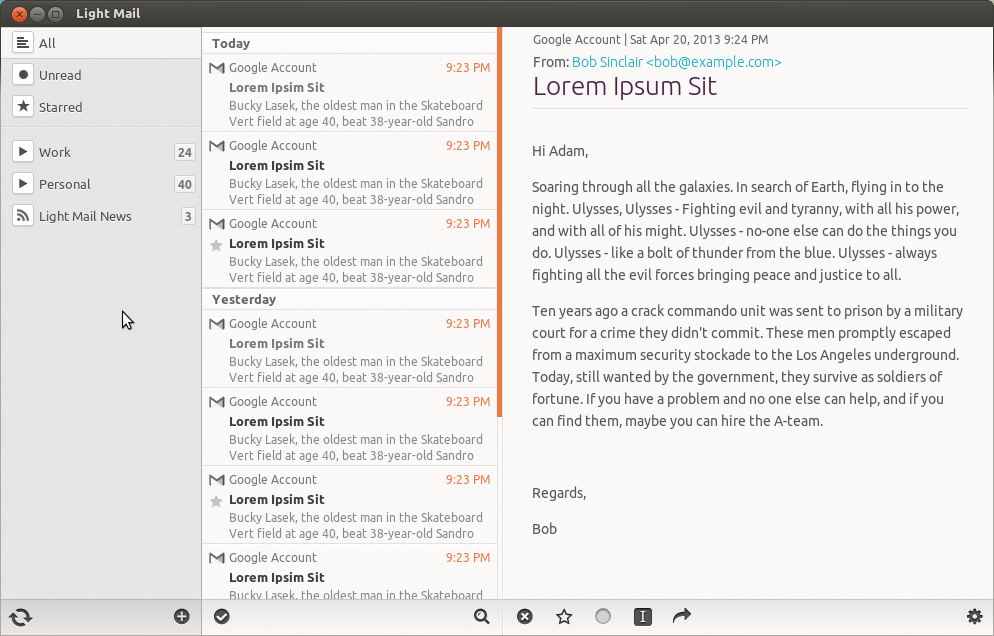
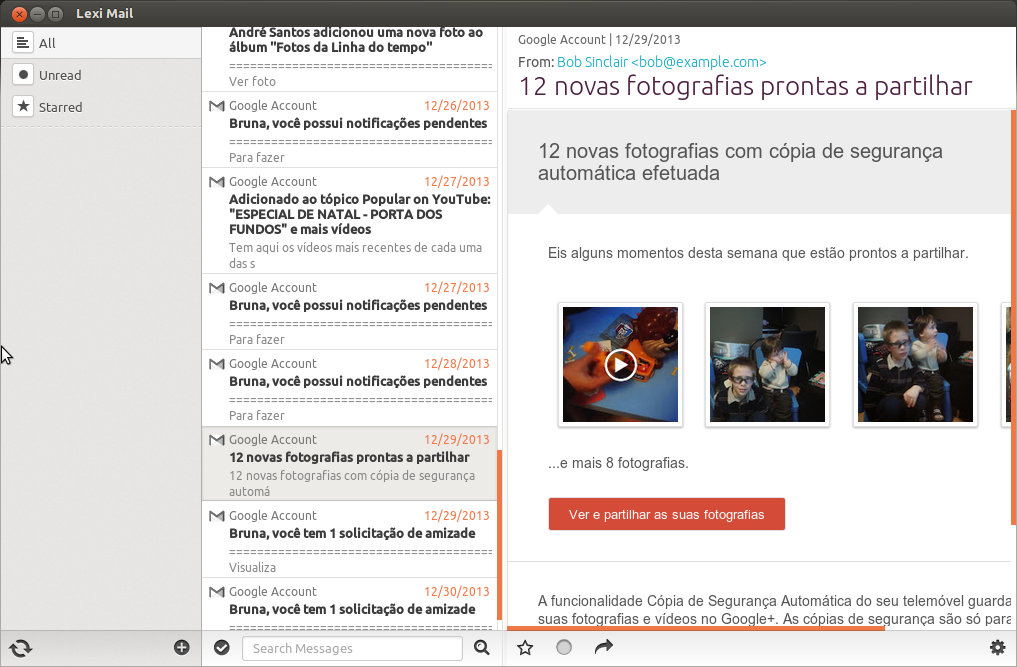
added support for showwing email message

diff --git a/themes/default/css/style.css b/themes/default/css/style.css
@@ -2,15 +2,13 @@ button:focus { outline: none; }
 
 a:focus { outline: none; }
 
-::-webkit-scrollbar { width: 5px; }
+::-webkit-scrollbar { width: 5px; height: 5px;}
 
 ::-webkit-scrollbar-thumb { background: #f07746; }
 
 #messages-list::-webkit-scroller-thumb { border-left: 1px solid #e1e1df; }
 
 #messages-list::-webkit-scrollbar-track { border-left: 1px solid #e1e1df; }
-
-#message::-webkit-scrollbar { width: 4px; }
 
 body, html, .splitter { height: 100%; font-family: "Ubuntu", "Helvetica", "Arial", sans-serif; }
 
@@ -132,25 +130,24 @@ input, textarea { font-family: "Ubuntu", "Helvetica", "Arial", sans-serif; }
 #messages-list li.no-border { border-bottom: 1px solid transparent; }
 #messages-list li.no-border.selected { border-bottom: 1px solid #e1e1df; }
 
-#post { max-width: 600px; overflow: hidden; margin: 0 auto; padding: 0 25px; font-size: 14px; color: #555555; line-height: 22px; }
-#post .post-link { display: block; position: relative; margin-top: 0px; margin-bottom: 30px; border: 1px solid transparent; border-bottom: 1px solid rgba(0, 0, 0, 0.1); box-shadow: 0 1px 0 white; }
+#post { overflow: hidden; margin: 0; padding: 0; font-size: 14px; color: #555555; line-height: 22px; }
+#post .post-link { padding: 0 10px; display: block; position: relative; margin: 0px; border: 1px solid transparent; border-bottom: 1px solid rgba(0, 0, 0, 0.1); box-shadow: 0 1px 0 white; }
 #post .post-link .details { font-weight: 400; display: block; font-size: 12px; color: #666666; }
 #post .post-link h1.title { color: #4d1f41; font-size: 26px; font-weight: 300; font-family: "Ubuntu Light", "Ubuntu", "Helvetica", "Arial", sans-serif; padding-bottom: 10px; margin: 0; line-height: 1; text-shadow: 0 0 1px rgba(0, 0, 0, 0.01); max-width: 600px; }
+
 #post strong { font-weight: bold; }
 #post em { font-style: italic; }
-#post table { max-width: 600px; width: 100%; }
+#post table { width: 100%; }
 #post img { max-width: 100% !important; box-sizing: border-box; height: auto !important; }
 #post img:not(.no-border), #post iframe { /* images resize with window */ padding: 4px; margin: 15px auto; display: table; background-color: white; border: none; border-radius: 2px; box-shadow: 0 1px 3px rgba(0, 0, 0, 0.3); }
 #post h2 { text-shadow: 0 0 1px rgba(0, 0, 0, 0.01); font-family: "Ubuntu Light", "Ubuntu", "Helvetica", "Arial", sans-serif; color: #4d1f41; }
 #post h3 { font-size: 18px; color: #4d1f41; font-family: "Ubuntu Medium", "Ubuntu", "Helvetica", "Arial", sans-serif; text-shadow: 0 0 1px rgba(0, 0, 0, 0.01); font-weight: 600; }
 #post h3 a { font-weight: 600; font-family: "Ubuntu Medium", "Ubuntu", "Helvetica", "Arial", sans-serif; }
 #post a { font-family: "Ubuntu Light", "Ubuntu", "Helvetica", "Arial", sans-serif; font-weight: 500; color: #08a8c5; text-decoration: none; }
-#post a:not(.post-link):hover { text-decoration: underline; }
-#post a.youtube { display: block; position: relative; }
-#post a.youtube:after { content: ""; position: absolute; display: block; top: 50%; bottom: auto; left: 50%; right: auto; width: 77px; height: 77px; margin: -37px 0 0 -37px; z-index: 5; background: url(../img/youtube.png); }
-#post p, #post div, #post img { max-width: 600px; }
 #post a.hasImage { border-bottom: 0; }
 #post hr { height: 2px; border: 0; background: url(../img/hr.png); }
+
+#post > .body { overflow: auto; }
 
 #modal * { -webkit-user-select: none; }
 #modal > div { position: fixed; border-radius: 5px; background-color: white; box-shadow: 0 0 5px rgba(0, 0, 0, 0.3); z-index: 300; }

diff --git a/js/app/widget/appshell.js b/js/app/widget/appshell.js
@@ -64,6 +64,8 @@ var Shell = {
 
 					// Splitter
 					$('#app').trigger('resize');
+
+					self.redraw();
 				}
 			});
 
@@ -103,27 +105,73 @@ var Shell = {
 		return d;
 	},
 
-	show: function(messages)
+	list: function(messages)
 	{
 		var self = this;
 
 		var msglist = $('#messages-list');
 		$.each(messages, function(i, m)
 		{
-			var txt = (m.text || m.html).substr(0, 200);
-			console.log(txt);
+			var txt = (m.text || m.html).substr(0, 50);
 
-			msglist.append(app.templates.message({
+			msglist.append(app.templates.row({
 				id: i,
+				account: 'Google Mail',
+				icon: '',
 				date: moment(m.date).calendar(),
 				subject: m.subject,
-				snipet: htmlToText.fromString(txt)
+				snipet: htmlToText.fromString(txt),
+				read: false,
+				starred: false
 			}));
+		});
+
+		msglist.find('li').off('click').on('click', function()
+		{
+			msglist.find('.selected').removeClass('selected');
+			$(this).addClass('selected');
+
+			var id = $(this).data('id');
+			var m = messages[id];
+
+			self.open(m);
+
 		});
 
 		// show all
 		$('#overlay').hide();
 		self.sync.end();
+	},
+
+	open: function(message)
+	{
+		var win = $('#post-window');
+		win.empty();
+
+		win.append(app.templates.message({
+			id: message.id,
+			subject: message.subject,
+			date: moment(message.date).calendar(),
+			html: message.html
+		}));
+
+		this.redraw();
+	},
+
+	redraw: function()
+	{
+		// Email body size
+		var full = $('#message').height();
+		var h = $('#post > header').height();
+		var bb = $('#message > .bar').height();
+		var v = full - (h + bb + 2);
+
+		console.log('header:', full);
+		console.log('header:', h);
+		console.log('bar:', bb);
+		console.log('view:', v);
+
+		$('#post > div').height(v);
 	},
 
 	settings: function()

diff --git a/js/app/provider/imap.js b/js/app/provider/imap.js
@@ -99,7 +99,7 @@ ImapProvider.prototype = {
 						return;
 					}
 
-					var f = self.imap.seq.fetch('1:3', { bodies: '' });
+					var f = self.imap.seq.fetch('1:30', { bodies: '' });
 					self.messages = [];
 					
 					var len = 0;

diff --git a/js/app.js b/js/app.js
@@ -60,7 +60,7 @@ shell.init().then(function()
 					p.disconnect();
 				});
 
-				shell.show(messages);
+				shell.list(messages);
 			});
 		});
 	}
